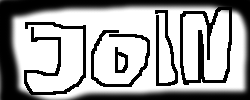
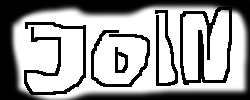
Added lobby screen

diff --git a/client/js/entities/entities.js b/client/js/entities/entities.js
@@ -1,0 +1,210 @@
+/**
+ * a player entity
+ */
+game.PlayerEntity = me.Entity.extend({
+  /**
+   * constructor
+   */
+  init : function (x, y, settings) {
+    // call the constructor
+    this._super(me.Entity, 'init', [x, y, settings]);
+
+    // set the default horizontal & vertical speed (accel vector)
+    this.body.setVelocity(3, 15);
+
+    // set the display to follow our position on both axis
+    me.game.viewport.follow(this.pos, me.game.viewport.AXIS.BOTH);
+
+    // ensure the player is updated even when outside of the viewport
+    this.alwaysUpdate = true;
+
+    // define a basic walking animation
+    this.renderable.addAnimation("walkDown",  [0, 1, 2, 3]);
+    this.renderable.addAnimation("walkLeft", [4,5,6,7]);
+    this.renderable.addAnimation("walkRight", [8,9,10,11]);
+    this.renderable.addAnimation("walkUp", [12,13,14,15]);
+    console.log(this.renderable)
+
+    // define a standing animation (using the first frame)
+    this.renderable.addAnimation("faceDown", [0]);
+    this.renderable.addAnimation("faceLeft", [4]);
+    this.renderable.addAnimation("faceRight", [8]);
+    this.renderable.addAnimation("faceUp", [12]);
+
+    // set the standing animation as default
+    this.renderable.setCurrentAnimation("faceDown");
+  },
+
+  /*
+   * update the player pos
+   */
+  update : function (dt) {
+    if (me.input.isKeyPressed('left')) {
+      // update the entity velocity
+      this.body.vel.x -= this.body.accel.x * me.timer.tick;
+      // change to the walking animation
+      if (!this.renderable.isCurrentAnimation("walkLeft")) {
+        this.renderable.setCurrentAnimation("walkLeft");
+      }
+    }
+    else if (me.input.isKeyPressed('right')) {
+      // update the entity velocity
+      this.body.vel.x += this.body.accel.x * me.timer.tick;
+
+      // change to the walking animation
+      if (!this.renderable.isCurrentAnimation("walkRight")) {
+        this.renderable.setCurrentAnimation("walkRight");
+      }
+    }
+    else {
+      this.body.vel.x = 0;
+      this.body.vel.y = 0;
+
+      // change to the standing animation
+      this.renderable.setCurrentAnimation("faceDown");
+    }
+
+    if (me.input.isKeyPressed('jump')) {
+      // make sure we are not already jumping or falling
+      if (!this.body.jumping && !this.body.falling) {
+        // set current vel to the maximum defined value
+        // gravity will then do the rest
+        this.body.vel.y = -this.body.maxVel.y * me.timer.tick;
+
+        // set the jumping flag
+        this.body.jumping = true;
+      }
+    }
+
+    // apply physics to the body (this moves the entity)
+    this.body.update(dt);
+
+    // handle collisions against other shapes
+    me.collision.check(this);
+
+    // return true if we moved or if the renderable was updated
+    return (this._super(me.Entity, 'update', [dt]) || this.body.vel.x !== 0 || this.body.vel.y !== 0);
+  },
+
+  /**
+   * colision handler
+   * (called when colliding with other objects)
+   */
+  onCollision : function (response, other) {
+    // Make all other objects solid
+    return true;
+  }}
+);
+
+/**
+ * a Coin entity
+ */
+game.CoinEntity = me.CollectableEntity.extend({
+  // extending the init function is not mandatory
+  // unless you need to add some extra initialization
+  init: function (x, y, settings) {
+    // call the parent constructor
+    this._super(me.CollectableEntity, 'init', [x, y , settings]);
+
+  },
+
+  // this function is called by the engine, when
+  // an object is touched by something (here collected)
+  onCollision : function (response, other) {
+    // do something when collected
+
+    // make sure it cannot be collected "again"
+    this.body.setCollisionMask(me.collision.types.NO_OBJECT);
+
+    // remove it
+    me.game.world.removeChild(this);
+
+    return false
+  }
+});
+
+/**
+ * an enemy Entity
+ */
+game.EnemyEntity = me.Entity.extend({
+  init: function (x, y, settings) {
+    // define this here instead of tiled
+    settings.image = "wheelie_right";
+
+    // save the area size defined in Tiled
+    var width = settings.width;
+    var height = settings.height;
+
+    // adjust the size setting information to match the sprite size
+    // so that the entity object is created with the right size
+    settings.framewidth = settings.width = 64;
+    settings.frameheight = settings.height = 64;
+
+    // redefine the default shape (used to define path) with a shape matching the renderable
+    settings.shapes[0] = new me.Rect(0, 0, settings.framewidth, settings.frameheight);
+
+    // call the parent constructor
+    this._super(me.Entity, 'init', [x, y , settings]);
+
+    // set start/end position based on the initial area size
+    x = this.pos.x;
+    this.startX = x;
+    this.endX   = x + width - settings.framewidth
+    this.pos.x  = x + width - settings.framewidth;
+
+    // to remember which side we were walking
+    this.walkLeft = false;
+
+    // walking & jumping speed
+    this.body.setVelocity(4, 6);
+
+  },
+
+  /**
+   * update the enemy pos
+   */
+  update : function (dt) {
+
+    if (this.alive) {
+      if (this.walkLeft && this.pos.x <= this.startX) {
+        this.walkLeft = false;
+      }
+      else if (!this.walkLeft && this.pos.x >= this.endX) {
+        this.walkLeft = true;
+      }
+
+      // make it walk
+      this.renderable.flipX(this.walkLeft);
+      this.body.vel.x += (this.walkLeft) ? -this.body.accel.x * me.timer.tick : this.body.accel.x * me.timer.tick;
+    }
+    else {
+      this.body.vel.x = 0;
+    }
+
+    // update the body movement
+    this.body.update(dt);
+
+    // handle collisions against other shapes
+    me.collision.check(this);
+
+    // return true if we moved or if the renderable was updated
+    return (this._super(me.Entity, 'update', [dt]) || this.body.vel.x !== 0 || this.body.vel.y !== 0);
+  },
+
+  /**
+   * colision handler
+   * (called when colliding with other objects)
+   */
+  onCollision : function (response, other) {
+    if (response.b.body.collisionType !== me.collision.types.WORLD_SHAPE) {
+      // res.y >0 means touched by something on the bottom
+      // which mean at top position for this one
+      if (this.alive && (response.overlapV.y > 0) && response.a.body.falling) {
+        this.renderable.flicker(750);
+      }
+      return false;
+    }
+    // Make all other objects solid
+    return true;
+  }
+});

diff --git a/client/js/screens/lobby.js b/client/js/screens/lobby.js
@@ -2,23 +2,27 @@ game.LobbyScreen = me.ScreenObject.extend({
     init: function() {
         // This is so we can draw
         // this.parent(true);
+        this._super(me.ScreenObject, 'init', [true])
+        console.log(this)
     },
 
     onResetEvent: function() {
         // Connect to server and set global reference to the socket that's connected
-        global.network.socket  = io.connect(global.network.host, {port: global.network.port, transports: ["websocket"]});
+        // global.network.socket  = io.connect(global.network.host, {port: global.network.port, transports: ["websocket"]});
+        global.network.socket = new WebSocket('ws://localhost:' + 9000);
 
         // Set up buttons and fonts
-        this.font = new me.Font("Verdana", 12, "#fff", "center");
-        this.joinbutton = new game.Button(600, 480, "joinbuttonde");
+        // this.font = new me.Font("Verdana", 12, "#fff", "center");
+        this.joinbutton = new game.Button(480, 250, "join");
 
         // Set up initial, basic socket handlers
-        global.network.socket.on("connect", this.onSocketConnected(this.joinbutton));
+        // global.network.socket.on("connect", this.onSocketConnected(this.joinbutton));
+        console.log(global.network.socket);
+        global.network.socket.onopen = this.onSocketConnected(this.joinbutton);
 
         // Add our renderable features to the screen
-        me.game.add(new me.ColorLayer("background", "#333333", 1));
-        me.game.add(this.joinbutton, 4);
-        me.game.sort();
+        me.game.world.addChild(new me.ColorLayer("background", "#000", 1));
+        me.game.world.addChild(this.joinbutton);
     },
 
     /**
@@ -32,12 +36,11 @@ game.LobbyScreen = me.ScreenObject.extend({
         console.log(error);
     },
 
-    // When we connect...
-    onSocketConnected: function(joinbutton, createbutton) {
+    onSocketConnected: function(joinbutton) {
+        console.log('connected');
 
         // Activate our buttons so that we can join or create new game rooms
         // On click: takes us to a game "Room"
-        joinbutton.type = "joinbutton";
         joinbutton.image = me.loader.getImage("join");
     }
 });

diff --git a/client/js/entities/button.js b/client/js/entities/button.js
@@ -3,25 +3,30 @@ game.Button = me.GUI_Object.extend({
         settings = {
             name: type,
             image: type,
-            spritewidth: 380,
-            spriteheight: 100
+            framewidth: 250,
+            frameheight: 100
         };
         this.type = type
         this.playing = false;
+        console.log('created button')
+        this.z = 1000;
 
-        this.parent(x,y,settings);
+        this._super(me.GUI_Object, 'init', [x, y, settings]);
     },
 
     onClick: function() {
-        else if(this.type === "playbutton") {
-            if(!this.playing) {
+        console.log('onclick', this.type)
+        if(this.type === "join") {
+            if (!this.playing) {
                 var data = {
+                    join: null,
                     name: "guest"
                 };
-                global.network.socket.emit("join", data);
+                global.network.socket.send(data);
                 this.playing = true;
+                me.state.change(me.state.PLAY);
             }
-        }else {
+        } else {
             // throw error
         }
 

diff --git a/client/js/game.js b/client/js/game.js
@@ -3,7 +3,7 @@ var global = {
   network: {
     socket: undefined,
     host: 'localhost',
-    port: 8080
+    port: 9000
   },
   state: {
     localPlayer: undefined,
@@ -62,6 +62,8 @@ var game = {
         me.input.bindKey(me.input.KEY.RIGHT, "right");
         me.input.bindKey(me.input.KEY.DOWN, "down");
         me.input.bindKey(me.input.KEY.UP, "up");
+        me.input.bindKey(me.input.KEY.ENTER, "action");
+        console.log(me.input)
 
         // gravity has to be disabled
         me.sys.gravity = 0;

diff --git a/backend/backend.py b/backend/backend.py
@@ -23,15 +23,6 @@ class BackendServerProtocol(WebSocketServerProtocol):
 
     def onOpen(self):
         self.factory.register(self)
-        user = self.redis.get(self.peer)
-        if not user:
-            user = {'status': 'off',
-                    'nick': 'Guest'+str(random.randint(10000, 99999)),
-                    'pos_x': 0.0,
-                    'pos_y': 0.0,
-                    }
-        user['status'] = 'on'
-        self.redis.hmset(self.peer, user)
 
     def onMessage(self, payload, isBinary):
         if isBinary:
@@ -43,6 +34,17 @@ class BackendServerProtocol(WebSocketServerProtocol):
 
         if data.get('nick'):
             self.redis.hset(self.peer, 'nick', data['nick'])
+
+        if data.get('join'):
+            user = self.redis.get(self.peer)
+            if not user:
+                user = {'status': 'off',
+                        'nick': 'Guest'+str(random.randint(10000, 99999)),
+                        'pos_x': 0.0,
+                        'pos_y': 0.0,
+                        }
+            user['status'] = 'on'
+            self.redis.hmset(self.peer, user)
 
         if data.get('pos'):
             self.redis.hmset(self.peer, data['pos'])
